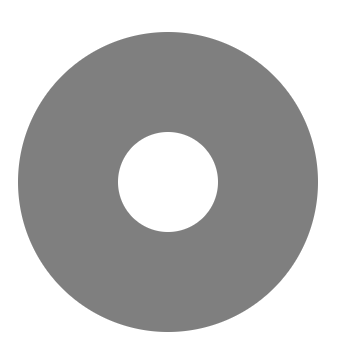
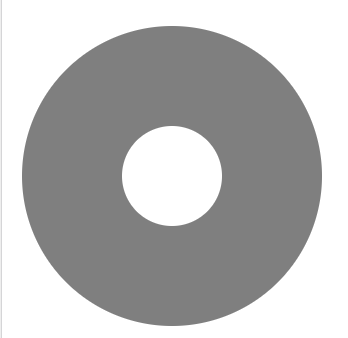
引导蒙层的实现思路

diff --git a/image-guide.md b/image-guide.md
@@ -149,7 +149,9 @@ div {
 
 当然，我们还可以设置border-radius来实现圆形的蒙层区域，如下：  
 
-![border-radius](./images/image-guide_border_7.png) 
+![border-radius](./images/image-guide_border_7.png)   
+
+如果是椭圆呢？
 
 总结：
 > border可以实现各种边线的形状，可以实现引导蒙层，页面指定区域透明，之外的都半透明来实现即可。
